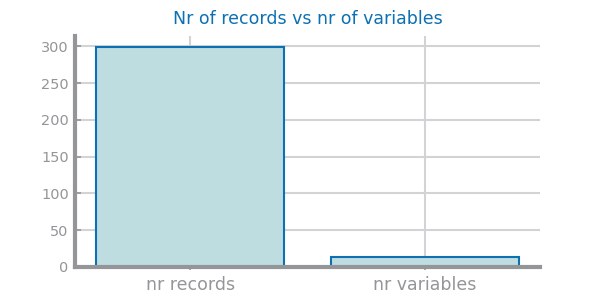
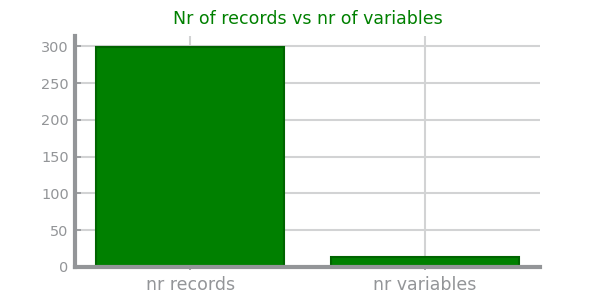
Update on dimensionality

Changed region(s): [[0.15, 0.15, 0.48, 0.9], [0.27, 0.03, 0.75, 0.09], [0.54, 0.84, 0.87, 0.9]]

diff --git a/Labs/Lab01/ds_functions.py b/Labs/Lab01/ds_functions.py
@@ -70,9 +70,9 @@ def multiple_line_chart(xvalues: list, yvalues: dict, ax: plt.Axes = None, title
 
 
 def bar_chart(xvalues: list, yvalues: list, ax: plt.Axes = None, title: str = '',
-              xlabel: str = '', ylabel: str = '', percentage=False):
+              xlabel: str = '', ylabel: str = '', percentage=False, edgecolor=cfg.LINE_COLOR, color=cfg.FILL_COLOR):
     ax = set_axes(xvalues, ax=ax, title=title, xlabel=xlabel, ylabel=ylabel, percentage=percentage)
-    ax.bar(xvalues, yvalues, edgecolor=cfg.LINE_COLOR, color=cfg.FILL_COLOR)
+    ax.bar(xvalues, yvalues, edgecolor=edgecolor, color=color)
 
 
 def multiple_bar_chart(xvalues: list, yvalues: dict, ax: plt.Axes = None, title: str = '',

diff --git a/Labs/Lab01/HFCR_dimensionality.py b/Labs/Lab01/HFCR_dimensionality.py
@@ -12,7 +12,8 @@ print(data.shape)
 
 plt.figure(figsize=(4,2))
 values = {'nr records': data.shape[0], 'nr variables': data.shape[1]}
-ds.bar_chart(values.keys(), values.values(), title='Nr of records vs nr of variables') 
+ds.bar_chart(values.keys(), values.values(), edgecolor="darkgreen", color="green") 
+plt.title('Nr of records vs nr of variables', color="green")
 plt.savefig(graphsDir + 'HFCR Dimensionality - NrRecords.png')
 
 print(data.dtypes)

diff --git a/Labs/Lab01/QOT_dimensionality.py b/Labs/Lab01/QOT_dimensionality.py
@@ -12,7 +12,8 @@ print(data.shape)
 
 plt.figure(figsize=(4,2))
 values = {'nr records': data.shape[0], 'nr variables': data.shape[1]}
-ds.bar_chart(values.keys(), values.values(), title='Nr of records vs nr of variables') 
+ds.bar_chart(values.keys(), values.values(), edgecolor="darkgreen", color="green")
+plt.title('Nr of records vs nr of variables', color="green")
 plt.savefig(graphsDir + 'QOT Dimensionality - NrRecords.png')
 
 print(data.dtypes)
